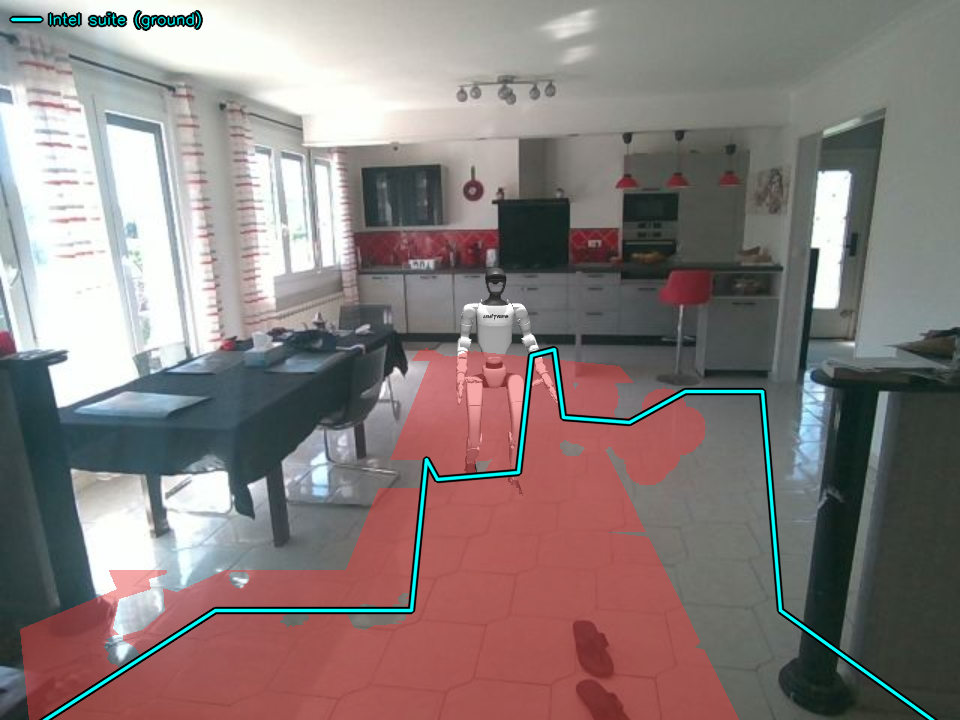
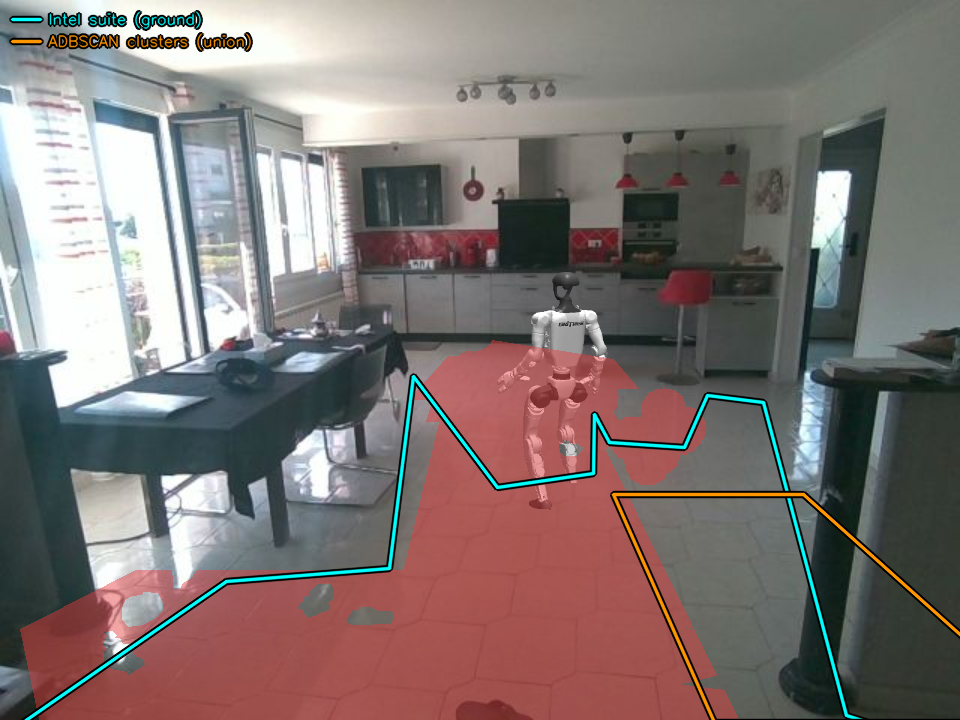
Draw ADBSCAN's clusters in orange when the navigator is using them
Scoped exception to the etape C freeze: the union had no picture. The
overlay drew our footprints only, so the one thing worth showing -- a
cluster from their side sitting on an obstacle we have no footprint for
-- was absent from the figure, and the caption had to say so.

SUITE_CLUSTERS is subscribed unconditionally, as the sim does, and
SHOW_SUITE_CLUSTERS gates the drawing on the same OBSTACLE_SOURCE the sim
reads. Off unless union: an overlay that appeared depending on which
optional profile happened to be running would be a surprise, and worse,
it would show an input the robot is not acting on.

The rectangles drawn are the ones the NAVIGATOR consumes, not the raw
topic -- arena-clipped and stripped of anything wider than
SUITE_MAX_SPAN. Drawing the raw topic would put a rectangle over half the
room that the robot never reacts to, which is worse than drawing nothing.
A test asserts the compositor's filter returns exactly what the
navigator's does on the same input, because a picture that asserts an
input the robot ignored is a worse failure than no picture.

Ground rectangles through the same _world_to_pixel as both floor
outlines, so a cluster on an object is visibly on it, and outline only --
a fill would hide the video underneath, which is the thing being judged.
Legend gains a third row.

docs/images/etape-c-union-pillar.png replaced with a capture that shows
all three: red free floor, cyan suite ground, orange cluster on the
[…]

diff --git a/services/compositor/compositor.py b/services/compositor/compositor.py
@@ -1054,6 +1054,38 @@ SHOW_FLOOR_AT_START = os.environ.get("SHOW_FLOOR", "0") not in ("", "0")
 # Initial state of the 'p' cloud display: 0 off, 1 over the video, 2 cloud
 # alone. Same purpose as SHOW_FLOOR -- a capture with no keyboard.
 SHOW_CLOUD_AT_START = int(os.environ.get("SHOW_CLOUD", "0") or 0)
+# ADBSCAN's clusters are drawn only when the navigator is actually acting on
+# them. Read from the same OBSTACLE_SOURCE the sim reads, so the picture cannot
+# claim an input the robot is ignoring -- the whole point of the overlay is to
+# show what drove a detour.
+SHOW_SUITE_CLUSTERS = (os.environ.get("OBSTACLE_SOURCE", "ours").strip().lower()
+                       == "union")
+# The navigator does not consume the raw topic: it clips to the arena and drops
+# anything wider than SUITE_MAX_SPAN, because their right-half block would
+# otherwise wall off the patrol (docs/ETAPE-C-RESULTS.md section 8). The same
+# filter is applied before drawing, or the overlay would show a rectangle over
+# half the room that the robot never reacts to. Same defaults as navigator.py;
+# compose feeds both, so they cannot drift.
+SUITE_MAX_SPAN = float(os.environ.get("SUITE_MAX_SPAN", "3.0"))
+SUITE_ARENA = (float(os.environ.get("SUITE_X_MIN", "1.5")),
+               float(os.environ.get("SUITE_X_MAX", "6.5")),
+               float(os.environ.get("SUITE_Y_MIN", "-2.6")),
+               float(os.environ.get("SUITE_Y_MAX", "1.5")))
+
+
+def _navigator_clusters(boxes):
+    """Their clusters as the navigator sees them: arena-clipped, de-blobbed."""
+    ax0, ax1, ay0, ay1 = SUITE_ARENA
+    out = []
+    for b in boxes or ():
+        x0, x1 = max(float(b[0]), ax0), min(float(b[1]), ax1)
+        y0, y1 = max(float(b[2]), ay0), min(float(b[3]), ay1)
+        if x1 - x0 <= 1e-6 or y1 - y0 <= 1e-6:
+            continue
+        if x1 - x0 > SUITE_MAX_SPAN or y1 - y0 > SUITE_MAX_SPAN:
+            continue
+        out.append((x0, x1, y0, y1))
+    return out
 # Which classes get a colour of their own. Same defaults as the bridge, and
 # compose feeds both from the same ${GF_GROUND_LABEL} so they cannot drift.
 CLOUD_GROUND_LABEL = int(os.environ.get("GF_GROUND_LABEL", "3"))
@@ -1360,7 +1392,8 @@ def _draw_overlays(out, ov, show_floor, show_seg, floor_det, depth_metres,
                    floor_paint_cpu, obstacle_boxes, roi_cached, detections,
                    seg_mask, seg_mask_t, cam_height, cam_pitch_deg,
                    fx, fy, ppx, ppy, suite_floor=None,
-                   suite_floor_t=0.0) -> bool:
+                   suite_floor_t=0.0, suite_clusters=None,
+                   suite_clusters_t=0.0) -> bool:
     """Draw whatever the operator has switched on. Returns True if it drew.
 
     Kept out of the main loop because it is diagnostic, not part of producing a
@@ -1473,14 +1506,43 @@ def _draw_overlays(out, ov, show_floor, show_seg, floor_det, depth_metres,
             cv2.polylines(out, [arr], True, (255, 255, 0), 2, cv2.LINE_AA)
             annotated = True
 
-    if show_floor and (roi_cached or _suite_fresh):
-        # Legend. Without it the two outlines are just two coloured rings and
-        # the screenshot is unreadable a week later.
+    # ADBSCAN's clusters, only in union mode. Off by default for the same reason
+    # the navigator ignores them by default: the suite bricks are an optional
+    # profile, and an overlay that appeared depending on what else was running
+    # would be a surprise. Drawn as ground rectangles through the SAME
+    # projection again, so a cluster sitting on an object is visibly on it.
+    #
+    # These are what the NAVIGATOR consumes, not the raw topic: already clipped
+    # to the arena and already stripped of anything wider than SUITE_MAX_SPAN.
+    # Drawing the raw topic would show a rectangle over half the room that the
+    # robot never reacts to, which is worse than drawing nothing.
+    _clusters_fresh = (SHOW_SUITE_CLUSTERS and suite_clusters
+                       and (time.time() - suite_clusters_t) < 3.0)
+    if show_floor and _clusters_fresh:
+        for x0, x1, y0, y1 in suite_clusters:
+            corners = []
+            for fwd, lat in ((x0, y0), (x1, y0), (x1, y1), (x0, y1)):
+                uv = _world_to_pixel(cam_height, cam_pitch_deg, fx, fy,
+                                     ppx, ppy, fwd, lat,
+                                     out.shape[1], out.shape[0])
+                if uv is not None:
+                    corners.append(uv)
+            if len(corners) == 4:
+                arr = np.array(corners, np.int32)
+                cv2.polylines(out, [arr], True, (0, 0, 0), 5, cv2.LINE_AA)
+                cv2.polylines(out, [arr], True, (0, 150, 255), 2, cv2.LINE_AA)
+                annotated = True
+
+    if show_floor and (roi_cached or _suite_fresh or _clusters_fresh):
+        # Legend. Without it the outlines are just coloured rings and the
+        # screenshot is unreadable a week later.
         y = 24
         for label, colour, on in (("ours (walkable floor)", (60, 220, 60),
                                    bool(roi_cached)),
                                   ("Intel suite (ground)", (255, 255, 0),
-                                   bool(_suite_fresh))):
+                                   bool(_suite_fresh)),
+                                  ("ADBSCAN clusters (union)", (0, 150, 255),
+                                   bool(_clusters_fresh))):
             if not on:
                 continue
             cv2.line(out, (12, y - 5), (40, y - 5), (0, 0, 0), 5, cv2.LINE_AA)
@@ -1925,9 +1987,13 @@ def main() -> None:
 
     pub = Publisher()
     cam_sub = Subscriber([topics.CAMERA_RGB, topics.CAMERA_DEPTH], rcvhwm=2)
+    # SUITE_CLUSTERS is subscribed unconditionally, like the sim does, and
+    # SHOW_SUITE_CLUSTERS decides whether anything is drawn. A silent topic
+    # costs nothing and the alternative is a subscription list that changes
+    # shape with an env var.
     sub = Subscriber([topics.ROBOT_STATE, topics.DETECTIONS,
                       topics.OBSTACLE_MASK, topics.GROUNDFLOOR_FLOOR,
-                      topics.SUITE_CLOUD])
+                      topics.SUITE_CLOUD, topics.SUITE_CLUSTERS])
 
     bg = None           # latest camera colour (BGR uint8); None until first frame
     bg_t = 0.0
@@ -1938,6 +2004,8 @@ def main() -> None:
     show_floor = SHOW_FLOOR_AT_START   # 'f' toggles it at any time
     suite_floor: list = []      # the suite's floor outline, drawn under 'f'
     suite_floor_t = 0.0
+    suite_clusters: list = []   # ADBSCAN's rectangles, drawn under 'f' in union
+    suite_clusters_t = 0.0
     _diag_written = 0           # diagnostic PNGs written so far, capped above
     # 'p' cycles: 0 off, 1 cloud over the video, 2 cloud alone on black.
     cloud_mode = SHOW_CLOUD_AT_START
@@ -2043,6 +2111,14 @@ def main() -> None:
                 suite_floor = [(float(a), float(b))
                                for a, b in (payload.get("poly") or [])]
                 suite_floor_t = time.time()
+                continue
+
+            if topic == topics.SUITE_CLUSTERS:
+                # Filtered here rather than at draw time: this arrives at ~9 Hz
+                # and the display runs faster, so doing it once per message is
+                # cheaper than once per frame.
+                suite_clusters = _navigator_clusters(payload.get("blocked"))
+                suite_clusters_t = time.time()
                 continue
 
             if topic == topics.SUITE_CLOUD:
@@ -2233,7 +2309,8 @@ def main() -> None:
                 out, ov, show_floor and cloud_mode != 2, show_seg, floor_det,
                 depth_metres, floor_paint_cpu, obstacle_boxes, roi_cached,
                 detections, seg_mask, seg_mask_t, cam_height, _cam_pitch_deg,
-                fx, fy, ppx, ppy, suite_floor, suite_floor_t) or _annotated
+                fx, fy, ppx, ppy, suite_floor, suite_floor_t,
+                suite_clusters, suite_clusters_t) or _annotated
         except Exception as exc:
             log.error("GPU compositing failed: %s", exc)
             raise

diff --git a/docs/ETAPE-C-RESULTS.md b/docs/ETAPE-C-RESULTS.md
@@ -415,14 +415,21 @@ Les tours se bouclent au rythme de la référence et « no way round » reste à
 
 ![Le robot en patrouille en mode union, contours affichés](images/etape-c-union-pillar.png)
 
-Capture `DIAG_FRAMES=3 SHOW_FLOOR=1` avec `OBSTACLE_SOURCE=union`, robot sortant
-à 2,77 m, dans la bande où le détour du pilier se déclenche. En cyan le contour
-de sol de la suite, en rouge notre sol libre ; le pilier sombre est la colonne à
-droite. **Ce que l'image ne montre pas :** le compositeur dessine ses propres
-empreintes et ignore `SUITE_CLUSTERS`, donc l'empreinte du pilier issue
-d'ADBSCAN n'y figure pas, et une image fixe ne montre pas une trajectoire. La
-preuve du détour est le journal, pas la photo — c'est la ligne
-`obstacle 1.0 x 1.0 m at (2.0, -1.2) [suite] ... shifting the line`.
+Capture `DIAG_FRAMES=3 SHOW_FLOOR=1` avec `OBSTACLE_SOURCE=union`. En rouge notre
+sol libre, en cyan le contour de sol de la suite, **en orange les clusters
+d'ADBSCAN** — celui de droite est posé sur le pilier et le comptoir, l'obstacle
+dont nous n'avons aucune empreinte. Le robot vient de terminer le demi-tour près
+à 2,01 m et sort à **0,70 m hors de l'axe**, détour actif sur un cluster `suite`
+de 1,8 × 0,7 m : `obstacle 1.8 x 0.7 m at (3.9, -0.8) [suite], shifting the line
++0.28 m`.
+
+Les rectangles orange sont ceux que le **navigateur** consomme, pas le topic
+brut : déjà rognés à l'arène et déjà débarrassés de tout ce qui dépasse
+`SUITE_MAX_SPAN`. Dessiner le topic brut montrerait un rectangle sur la moitié
+de la pièce auquel le robot ne réagit jamais. Le filtre du compositeur est
+vérifié identique à celui du navigateur par un test, sans quoi l'image
+affirmerait une entrée que le robot ignore. Reste vrai : une image fixe ne montre
+pas une trajectoire, le détour se lit dans le journal.
 
 ### Reste à faire
 

diff --git a/docs/DEVELOPER-GUIDE.md b/docs/DEVELOPER-GUIDE.md
@@ -590,10 +590,20 @@ therefore the right operator, not the diplomatic one.**
 
 ![The robot patrolling in union mode, overlays on](images/etape-c-union-pillar.png)
 
-`DIAG_FRAMES=3 SHOW_FLOOR=1` under `OBSTACLE_SOURCE=union`. Cyan is the suite's
-floor contour, red our free floor; the dark column on the right is the pillar.
-The overlay draws our footprints only, so ADBSCAN's rectangle is not in the
-picture — the detour is evidenced by the log line, not the image.
+`DIAG_FRAMES=3 SHOW_FLOOR=1` under `OBSTACLE_SOURCE=union`. Red is our free
+floor, cyan the suite's floor contour, **orange an ADBSCAN cluster** — the one on
+the right sits on the pillar and counter, the obstacle we have no footprint for.
+The robot has just cleared the near about-face at 2.01 m and is 0.70 m off the
+axis with a suite-sourced detour active.
+
+Two things worth copying if you build a comparable overlay. Draw the rectangles
+the **consumer** sees, not the raw topic: these are already arena-clipped and
+already stripped of anything wider than the span guard, and drawing the raw
+topic would show a rectangle over half the room that the robot never reacts to.
+And **test that the overlay's filter equals the consumer's** — otherwise the
+picture asserts an input the robot ignored, which is a worse failure than having
+no picture. A still frame still cannot show a trajectory; the detour is in the
+log.
 
 See also the two floor overlays from the earlier campaign, which make the near-
 and far-field disagreements of section 4 legible:
